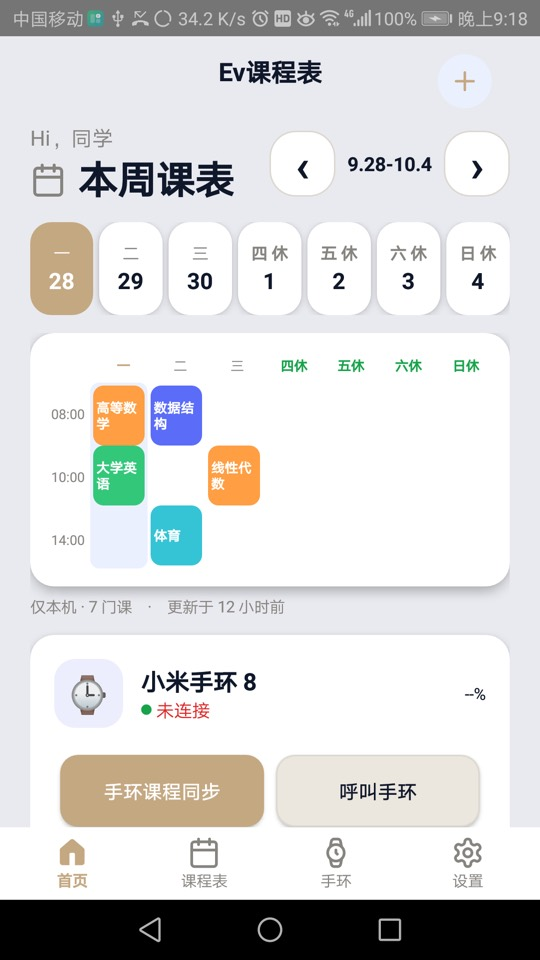
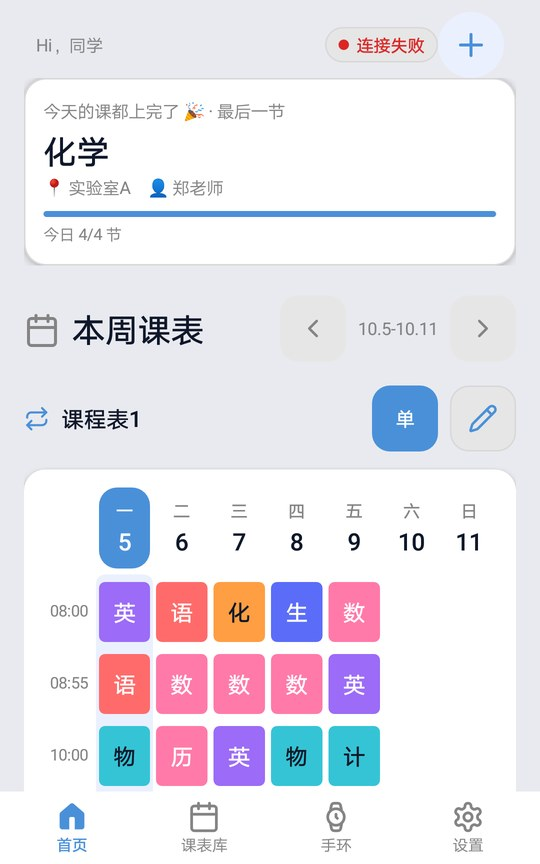
feat(截图): 首页三图更新到 v0.5.165 实拍（多屏 + 裁掉状态栏/导航条）
三星 Galaxy / 华为 BLN_AL20 真机 0.5.165 实拍：首页顶部（已连接·真实课表）、
⊕菜单展开、首页下半（设备卡+快捷 4 联横条+未配对提示）。
裁剪：去顶部状态栏(72px)与底部系统导航条(120px)，仅保留内容；540 宽 JPG。
home-bottom 的 points 与新 UI 对齐（4 联横条：呼叫/上课/留言/下课）。

diff --git a/android-apk.html b/android-apk.html
@@ -50,9 +50,9 @@ var DATA={app:{name:"Ev课程表 APK",repo:"guomengtao/ev-schedule-android",vers
 captureEnv:{device:"华为荣耀畅玩7X BLN-AL20",os:"EMUI 8 / Android 8.0",size:"1080x2160",adb:"BTF4C17222009588",state:"手环未连接"},
 capturedAt:"2026-09-28 21:18",pageUpdatedAt:"2026-09-28",pages:[
 {id:"home",name:"首页",group:"底栏 4 页",usage:"本周课表、周切换、设备卡、快捷操作",entry:"启动即此 / 底栏「首页」",points:["标题双态：本周=日历普通标题，翻周后=回到本周可点","假期休/调休班角标","⊕ 菜单：导出/导入/呼叫手环"],
-shots:[{file:"apk/01-home-top.jpg",state:"顶部·本周课表",version:"0.5.54",at:"2026-09-28 21:15"},{file:"apk/02-home-menu.jpg",state:"⊕菜单展开",version:"0.5.54",at:"2026-09-28 21:15"}]},
-{id:"home-bottom",name:"首页（下半）",group:"底栏 4 页",usage:"设备卡与快捷操作 2×2",entry:"首页向下滚动",points:["设备卡：手环名/电量/未连接状态","快捷操作：手环课程同步 / 呼叫手环 / 发消息给手环 / 连接手环","未连接时显示黄色提示与重试连接 / 打开手环EV"],
-shots:[{file:"apk/03-home-bottom.jpg",state:"设备卡·未连接",version:"0.5.54",at:"2026-09-28 21:15"}]},
+shots:[{file:"apk/01-home-top.jpg",state:"顶部·本周课表",version:"0.5.165",at:"2026-10-05 13:55"},{file:"apk/02-home-menu.jpg",state:"⊕菜单展开",version:"0.5.165",at:"2026-10-05 13:55"}]},
+{id:"home-bottom",name:"首页（下半）",group:"底栏 4 页",usage:"设备卡与快捷操作 2×2",entry:"首页向下滚动",points:["设备卡：来自手环 · N 门课 · 最后同步时间","快捷操作 4 联横条：呼叫 / 上课 / 留言 / 下课","未配对时黄色提示 + 重试连接 / 打开手环 EV"],
+shots:[{file:"apk/03-home-bottom.jpg",state:"设备卡·未连接",version:"0.5.165",at:"2026-10-05 13:55"}]},
 {id:"schedules",name:"课程表管理",group:"底栏 4 页",usage:"多课表管理：切换/同步/编辑/删除",entry:"底栏「课程表」",points:["当前课表打勾，可同步到手机或手环","导入/导出入口在页底"],
 shots:[{file:"apk/04-schedules-top.jpg",state:"顶部",version:"0.5.54",at:"2026-09-28 21:16"},{file:"apk/05-schedules-bottom.jpg",state:"底部·导入导出",version:"0.5.54",at:"2026-09-28 21:16"}]},
 {id:"band",name:"手环",group:"底栏 4 页",usage:"手环连接、昵称、首页设置、留言入口",entry:"底栏「手环」",points:["未连接：引导重新选择设备","修改昵称会同步到手环","连接成功后此页显示设备名/版本/电量"],
